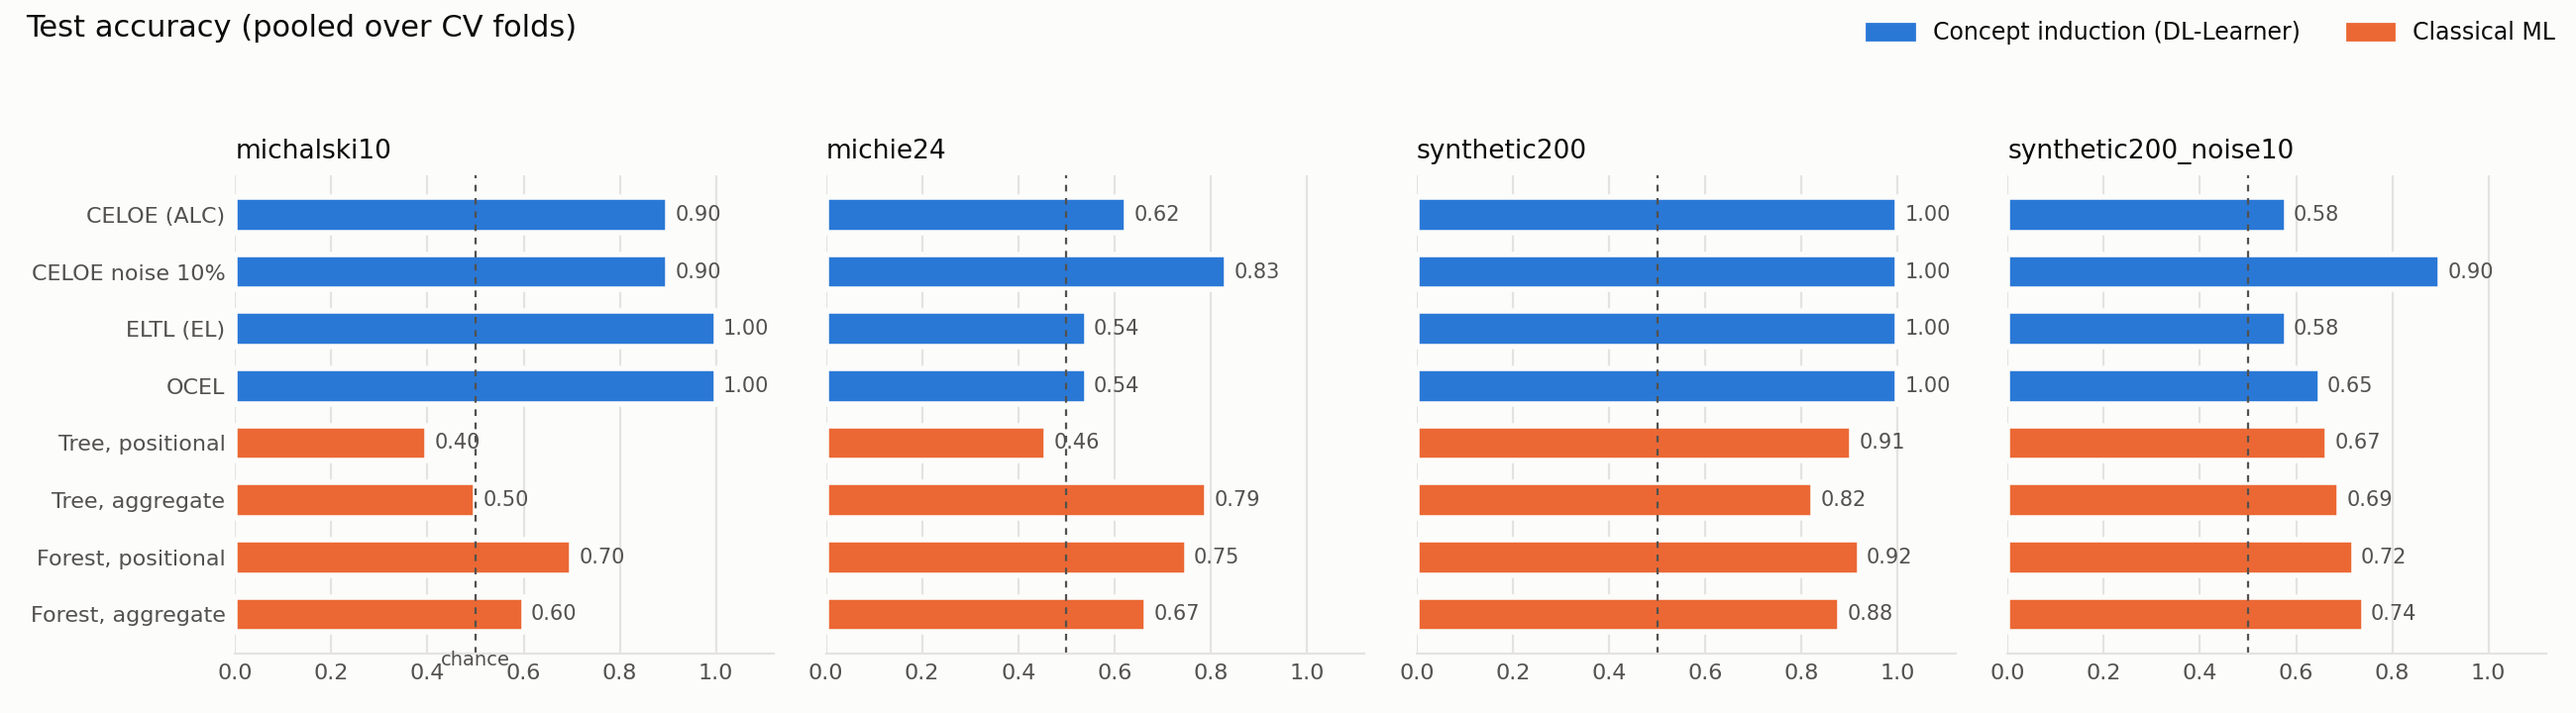
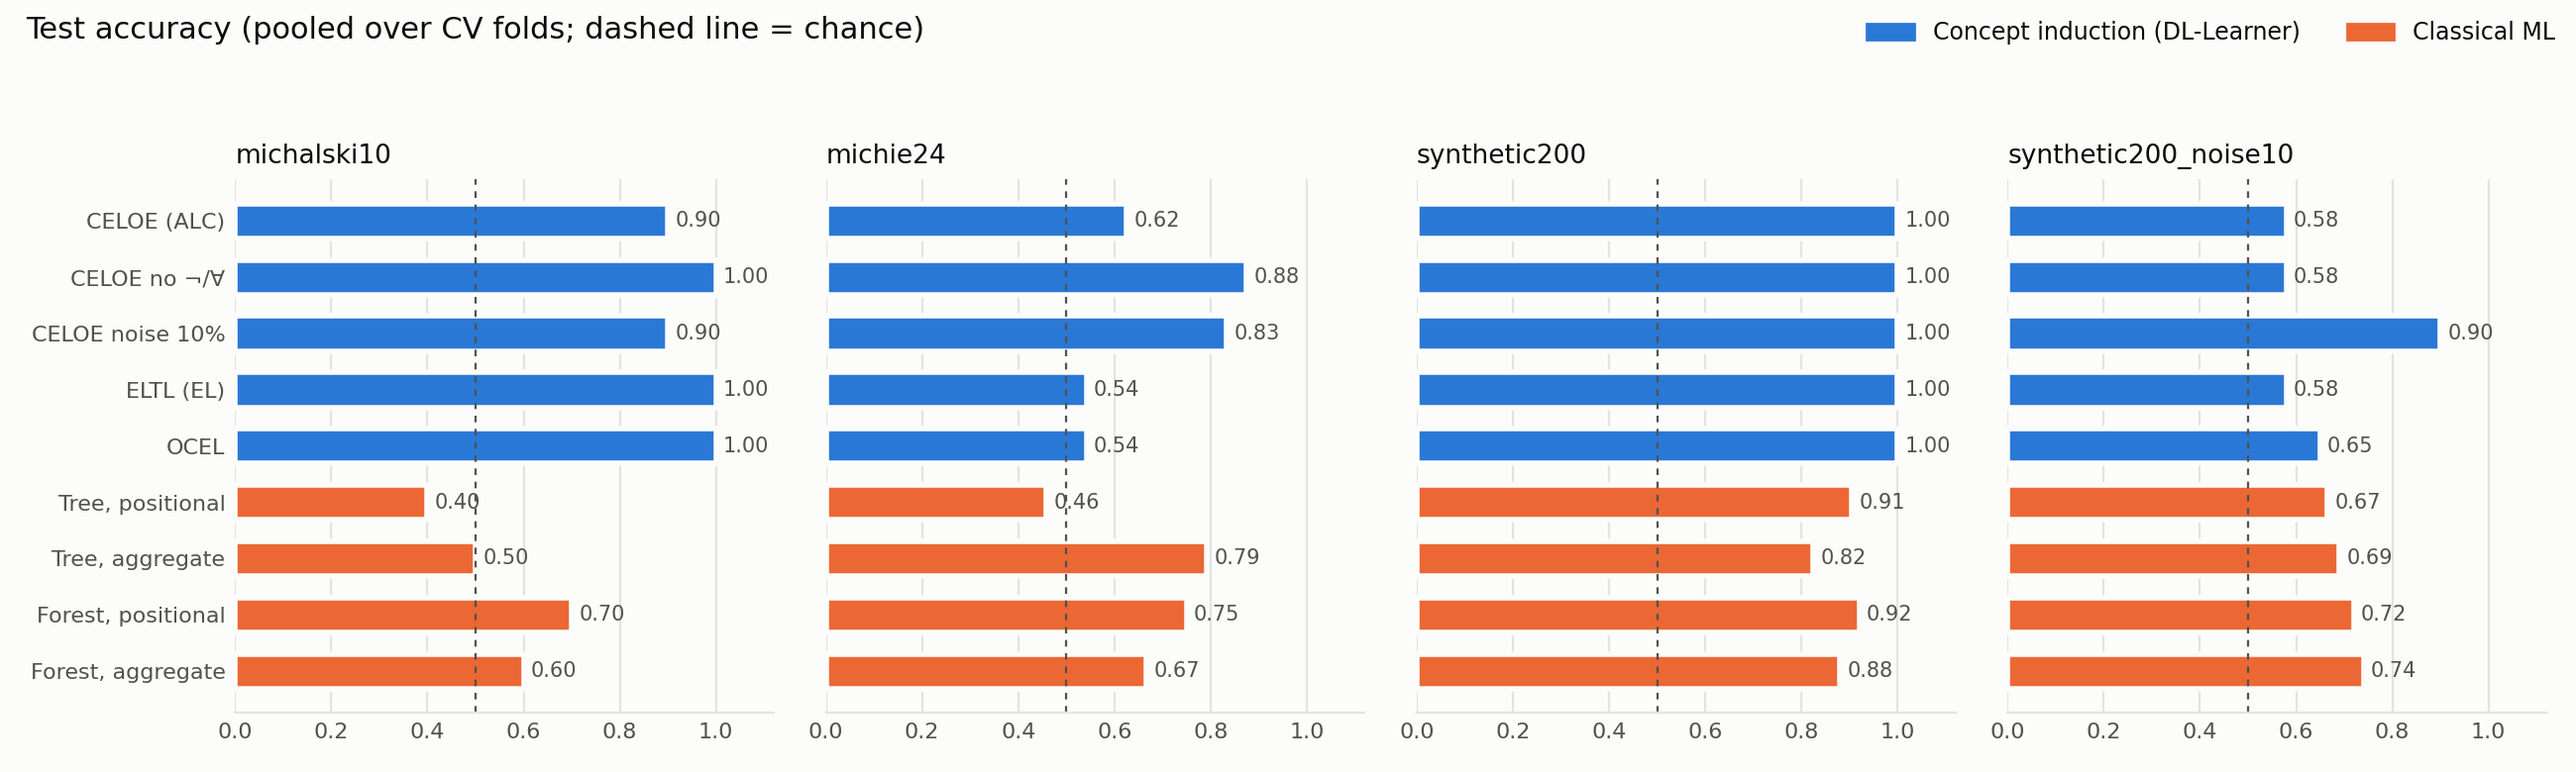
OWA 60s experiments, figure fixes, report results/discussion complete, README

diff --git a/src/evaluate.py b/src/evaluate.py
@@ -130,6 +130,7 @@ def style(ax):
 def fig_comparison(summary: pd.DataFrame) -> None:
     """Small multiples: test accuracy per method, one panel per dataset."""
     picks = [("DL-Learner", "celoe_alc", "CELOE (ALC)"),
+             ("DL-Learner", "celoe_no_neg_all", "CELOE no ¬/∀"),
              ("DL-Learner", "celoe_noise10", "CELOE noise 10%"),
              ("DL-Learner", "eltl_el", "ELTL (EL)"),
              ("DL-Learner", "ocel_alc", "OCEL"),
@@ -137,7 +138,7 @@ def fig_comparison(summary: pd.DataFrame) -> None:
              ("ML", "dt_aggregate", "Tree, aggregate"),
              ("ML", "rf_positional", "Forest, positional"),
              ("ML", "rf_aggregate", "Forest, aggregate")]
-    fig, axes = plt.subplots(1, 4, figsize=(13, 3.6), sharey=True, facecolor=SURFACE)
+    fig, axes = plt.subplots(1, 4, figsize=(13, 3.9), sharey=True, facecolor=SURFACE)
     for ax, ds in zip(axes, DATASETS):
         vals, labels, colors = [], [], []
         for kind, setting, label in picks:
@@ -156,11 +157,11 @@ def fig_comparison(summary: pd.DataFrame) -> None:
         ax.set_yticks(list(y))
         ax.set_yticklabels(labels)
         style(ax)
-    axes[0].text(0.5, -0.9, "chance", fontsize=7, color=INK2, ha="center")
     handles = [plt.Rectangle((0, 0), 1, 1, color=BLUE), plt.Rectangle((0, 0), 1, 1, color=ORANGE)]
     fig.legend(handles, ["Concept induction (DL-Learner)", "Classical ML"], loc="upper right",
                ncol=2, frameon=False, fontsize=8.5, labelcolor=INK)
-    fig.suptitle("Test accuracy (pooled over CV folds)", x=0.01, ha="left", fontsize=11, color=INK)
+    fig.suptitle("Test accuracy (pooled over CV folds; dashed line = chance)", x=0.01, ha="left",
+                 fontsize=11, color=INK)
     fig.tight_layout(rect=(0, 0, 1, 0.93))
     fig.savefig(RES / "fig_test_accuracy.png", dpi=200, facecolor=SURFACE)
     plt.close(fig)
@@ -181,6 +182,7 @@ def fig_time_budget(summary: pd.DataFrame) -> None:
         a2.plot(xs, ln, marker="o", markersize=6, linewidth=2, color=col, label=ds)
     for ax, title in ((a1, "Test accuracy"), (a2, "Mean concept length")):
         ax.set_xscale("log")
+        ax.minorticks_off()
         ax.set_xticks([1, 5, 20])
         ax.set_xticklabels(["1 s", "5 s", "20 s"])
         ax.set_title(title, fontsize=9.5, color=INK, loc="left")
@@ -188,6 +190,8 @@ def fig_time_budget(summary: pd.DataFrame) -> None:
         ax.grid(axis="y", color=GRID, linewidth=0.8)
         ax.grid(axis="x", visible=False)
     a1.legend(frameon=False, fontsize=7.5, labelcolor=INK)
+    a2.annotate("michalski10 = synthetic200 = 5", xy=(5, 5), xytext=(1.05, 5.35),
+                fontsize=7.5, color=INK2)
     fig.suptitle("CELOE runtime budget", x=0.01, ha="left", fontsize=11, color=INK)
     fig.tight_layout()
     fig.savefig(RES / "fig_time_budget.png", dpi=200, facecolor=SURFACE)

diff --git a/report/report.md b/report/report.md
@@ -27,9 +27,10 @@ and we ask what the logical representation buys us.
    reaches 0.875, beating all baselines (best 0.79). Its official rule needs "two
    adjacent wagons with the **same** load shape". That kind of variable binding is
    outside ALC, and no setting finds it.
-4. Under the open-world assumption with HermiT, learning is 2–3 orders of magnitude
-   slower. Without closure axioms, the ∀/¬ concepts that the closed-world reasoner exploits
-   are not entailed.
+4. Under the open-world assumption with HermiT, each reasoning step is 1–3 orders of
+   magnitude slower. With 5 s the search fails (⊤). With 60 s it recovers the same
+   existential concept (0.90), since ∃-concepts mean the same under both
+   assumptions, whereas ∀/¬ concepts need closure axioms.
 
 # 2. Dataset
 
@@ -189,6 +190,7 @@ Full tables are in `results/summary.md`. Figure 1 compares the main settings.
 | ELTL (EL) | **1.00** | 1.00 | 1.00 | 1.00 | 5.8 | 8.0 s |
 | OCEL | **1.00** | 1.00 | 1.00 | 1.00 | 9.0 | 7.7 s |
 | HermiT OWA, open / closure (5 s) | 0.80 / 0.50 | | | | 3 / 1 | 8 / 12 s |
+| HermiT OWA, open / closure (60 s) | 0.90 / 0.90 | | | 0.91 / 0.91 | 5.0 / 4.6 | 63 / 71 s |
 | Decision tree, positional / aggregate | 0.40 / 0.50 | | | 0.25 / 0.62 | 4.8 / 5 nodes | <0.01 s |
 | Random forest, positional / aggregate | 0.70 / 0.60 | | | 0.73 / 0.67 | ~1000 nodes | 0.25 s |
 
@@ -296,7 +298,25 @@ memorise the noise.
   EL (ELTL) is fine for purely existential targets but cannot express the
   disjunction needed for Michie.
 
-<!-- OWA-RESULTS -->
+## 6.5 Open-world reasoning (HermiT)
+
+| setting (michalski10) | test acc | train acc | candidates tested | concept on all data |
+|---|---|---|---|---|
+| closed-world reasoner, 5 s (reference) | 0.90 | 1.00 | 25,491 | ∃hasCar.(ClosedCar ⊓ ShortCar) |
+| HermiT, open ontology, 5 s | 0.80 | 0.80 | 135 | ∃carCount.[≥3] |
+| HermiT, closure ontology, 5 s | 0.50 | 0.50 | 16 | ⊤ |
+| HermiT, open ontology, 60 s | 0.90 | 0.99 | 4,062 | ∃hasCar.(ClosedCar ⊓ ShortCar) |
+| HermiT, closure ontology, 60 s | 0.90 | 0.97 | 304 | ∃hasCar.(ClosedCar ⊓ ShortCar) |
+
+On Michie's 24 trains, both HermiT settings return ⊤ within 5 s (5–17 candidates
+tested). With a 60 s budget, OWA learning on Michalski's trains recovers the same concept
+in 9 of 11 runs, so the target is learnable under the OWA, because it is purely
+existential. The cost is 12–14× more wall time per fold for a search that is still
+6–80× smaller. One OWA run on the open ontology again returns ≥3 hasCar.¬JaggedTopCar.
+This is interesting because, without the unique-name assumption, "at least 3 wagons" is only entailed when
+the wagons are *provably distinct*. Here that follows from their disjoint asserted
+classes (different shapes or lengths), and ¬JaggedTopCar follows from the
+shape-disjointness axioms. So our disjointness axioms already act as a partial closure.
 
 # 7. Discussion
 

diff --git a/README.md b/README.md
@@ -20,3 +20,26 @@ with classical ML baselines (decision tree, random forest).
 tools/setup.sh          # downloads DL-Learner 1.5.0 + creates .venv
 ```
 DL-Learner 1.5.0 needs extra `--add-opens` flags on Java 17+; `tools/dlcli.sh` adds them.
+
+## Reproduce everything
+```bash
+tools/setup.sh                              # DL-Learner 1.5.0 + Python venv
+.venv/bin/python src/parse_data.py          # data/processed/*.json
+.venv/bin/python src/build_ontology.py      # ontology/*.owl
+.venv/bin/python src/splits.py              # data/splits/*.json (shared CV folds)
+.venv/bin/python src/run_experiments.py     # conf/**.conf + DL-Learner runs (~35 min, 4 parallel)
+.venv/bin/python src/baselines.py           # decision tree / random forest
+.venv/bin/python src/evaluate.py            # results/summary.{csv,md}, figures
+./make_submission.sh                        # submission/*.zip
+```
+`run_experiments.py` resumes: finished runs (output + wall time in `results/runs/`) are re-scored, not re-run (`--force` to re-run).
+
+## Headline results (test accuracy, pooled over folds)
+| dataset | best DL-Learner | concept | best tree/forest |
+|---|---|---|---|
+| michalski10 (LOO) | 1.00 (CELOE no ¬/∀, ELTL, OCEL); 0.90 reference | ∃hasCar.(ClosedCar ⊓ ShortCar) | 0.70 |
+| michie24 (LOO) | 0.875 (CELOE no ¬/∀, or 20 s) | ∃hasCar.(DoubleWallCar ⊔ PeakedRoofCar ⊔ (ClosedCar ⊓ RectangleCar)) | 0.79 |
+| synthetic200 (5-fold) | 1.00 (all settings) | ∃hasCar.(ClosedCar ⊓ ShortCar) = hidden rule | 0.92 |
+| synthetic200_noise10 | 0.90 (1.00 vs true labels), CELOE noise 10 % | ∃hasCar.(ClosedCar ⊓ ShortCar) | 0.74 (0.84 vs true) |
+
+Full tables: `results/summary.md`; report: `report/report.md`.

diff --git a/results/summary.md b/results/summary.md
@@ -15,7 +15,9 @@ Pooled test predictions over all folds (LOO for the 10/24-train sets, stratified
 | DL-Learner | eltl_el | 1.000 | 1.000 | 1.000 | 1.000 | 1.000 | 5.8 | 8.04 |
 | DL-Learner | ocel_alc | 1.000 | 1.000 | 1.000 | 1.000 | 1.000 | 9.0 | 7.65 |
 | DL-Learner | owa_hermit_closed | 0.500 | 0.500 | 1.000 | 0.667 | 0.500 | 1.0 | 12.02 |
+| DL-Learner | owa_hermit_closed_t60 | 0.900 | 0.833 | 1.000 | 0.909 | 0.967 | 4.6 | 71.36 |
 | DL-Learner | owa_hermit_open | 0.800 | 0.714 | 1.000 | 0.833 | 0.800 | 3.0 | 7.71 |
+| DL-Learner | owa_hermit_open_t60 | 0.900 | 0.833 | 1.000 | 0.909 | 0.989 | 5.0 | 63.36 |
 | ML | dt_aggregate | 0.500 | 0.500 | 0.800 | 0.615 | 1.000 | 5.0 | 0.00 |
 | ML | dt_positional | 0.400 | 0.333 | 0.200 | 0.250 | 1.000 | 4.8 | 0.01 |
 | ML | rf_aggregate | 0.600 | 0.571 | 0.800 | 0.667 | 1.000 | 1027.0 | 0.23 |
@@ -32,7 +34,9 @@ Pooled test predictions over all folds (LOO for the 10/24-train sets, stratified
 | eltl_el | `∃hasCar.(ClosedCar ⊓ ShortCar)` | 2.0 | – |
 | ocel_alc | `∃hasCar.(ClosedCar ⊓ ShortCar) ⊓ ∃carCount.[>=3]` | 1.0 | 27759 |
 | owa_hermit_closed | `⊤` | 1.0 | 16 |
+| owa_hermit_closed_t60 | `∃hasCar.(ClosedCar ⊓ ShortCar)` | 2.0 | 304 |
 | owa_hermit_open | `∃carCount.[>=3]` | 1.0 | 135 |
+| owa_hermit_open_t60 | `∃hasCar.(ClosedCar ⊓ ShortCar)` | 2.0 | 4062 |
 
 ## michie24
 
